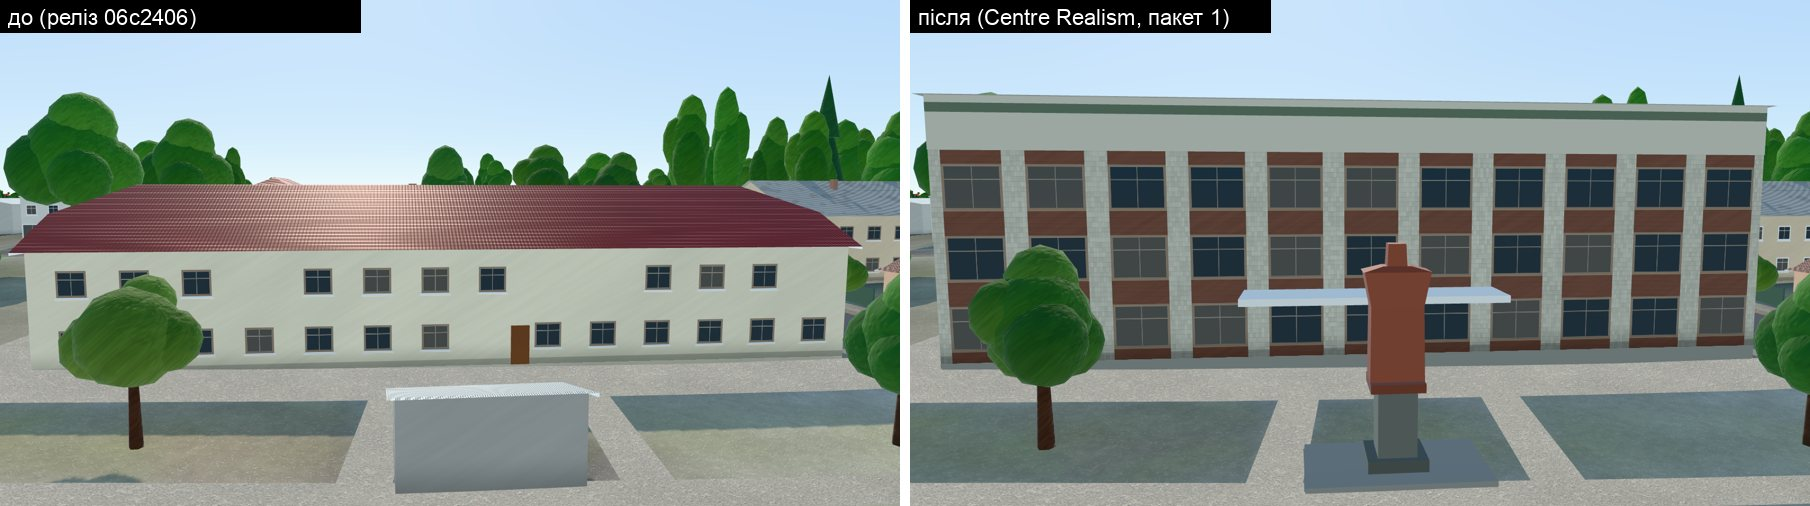
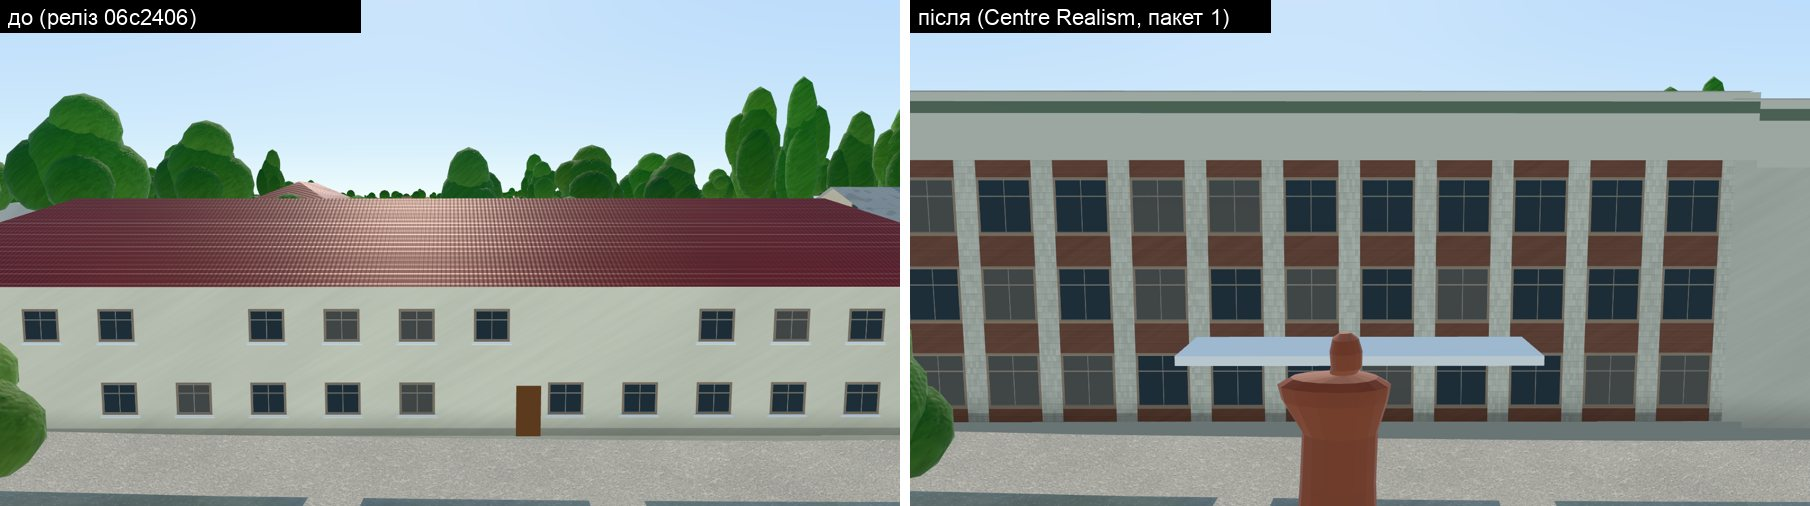
Release prep: final batch-1 renders in docs, NOTICE credit for the Shevchenko statue reference photo
Claude-Session: https://claude.ai/code/session_01LBA1tuHhtuKDbJjqDQfvYF

diff --git a/docs/CENTRE_REALISM.md b/docs/CENTRE_REALISM.md
@@ -4,7 +4,8 @@
 Відтворюється лише те, що видно на ліцензованих фото, або те, що є в даних (OSM, Microsoft). Геометрію, якої
 немає в джерелах, не вигадано. Еталон якості — ліцей і синагога, їх не змінено.
 
-Робота йде в гілці `feature/skvyra-centre-realism`; `master` і публічний сайт не змінювались (реліз `06c2406`).
+Робота йшла в гілці `feature/skvyra-centre-realism`. Після затвердження власником пакет 1 інтегровано в `master` і опубліковано
+(GitHub і Vercel, 2026-11-17). Попередній реліз `06c2406` збережено тегом `stable/06c2406-pre-centre-realism` і резервною копією (§1).
 
 ## 1. Відкат
 
